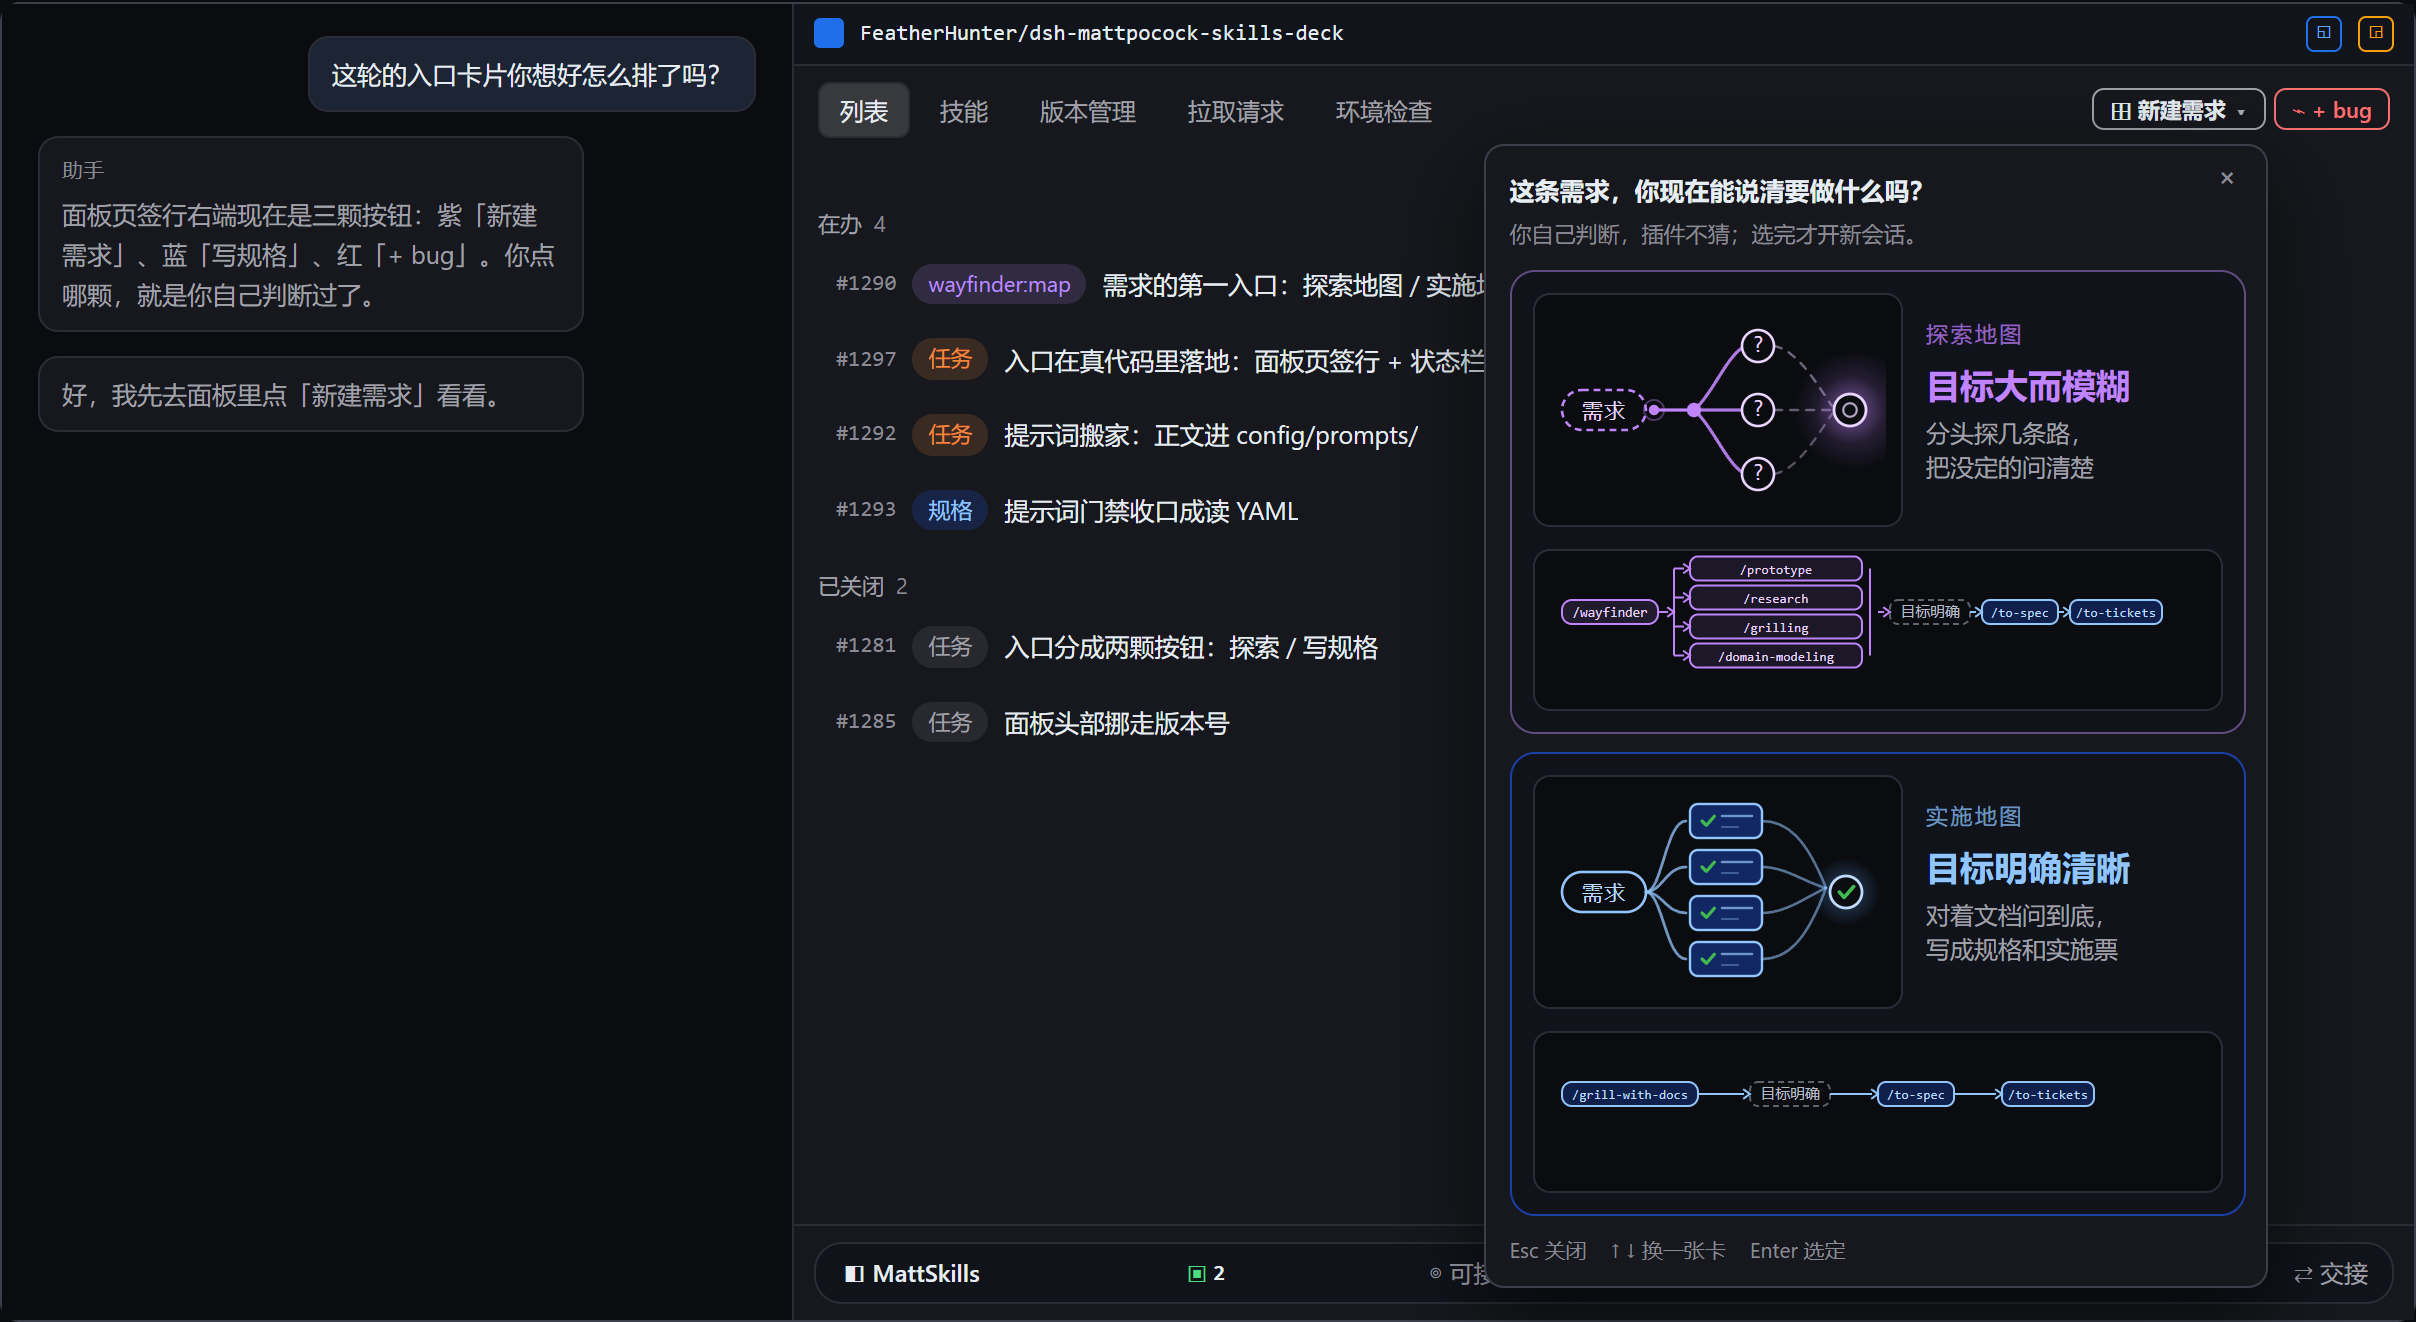
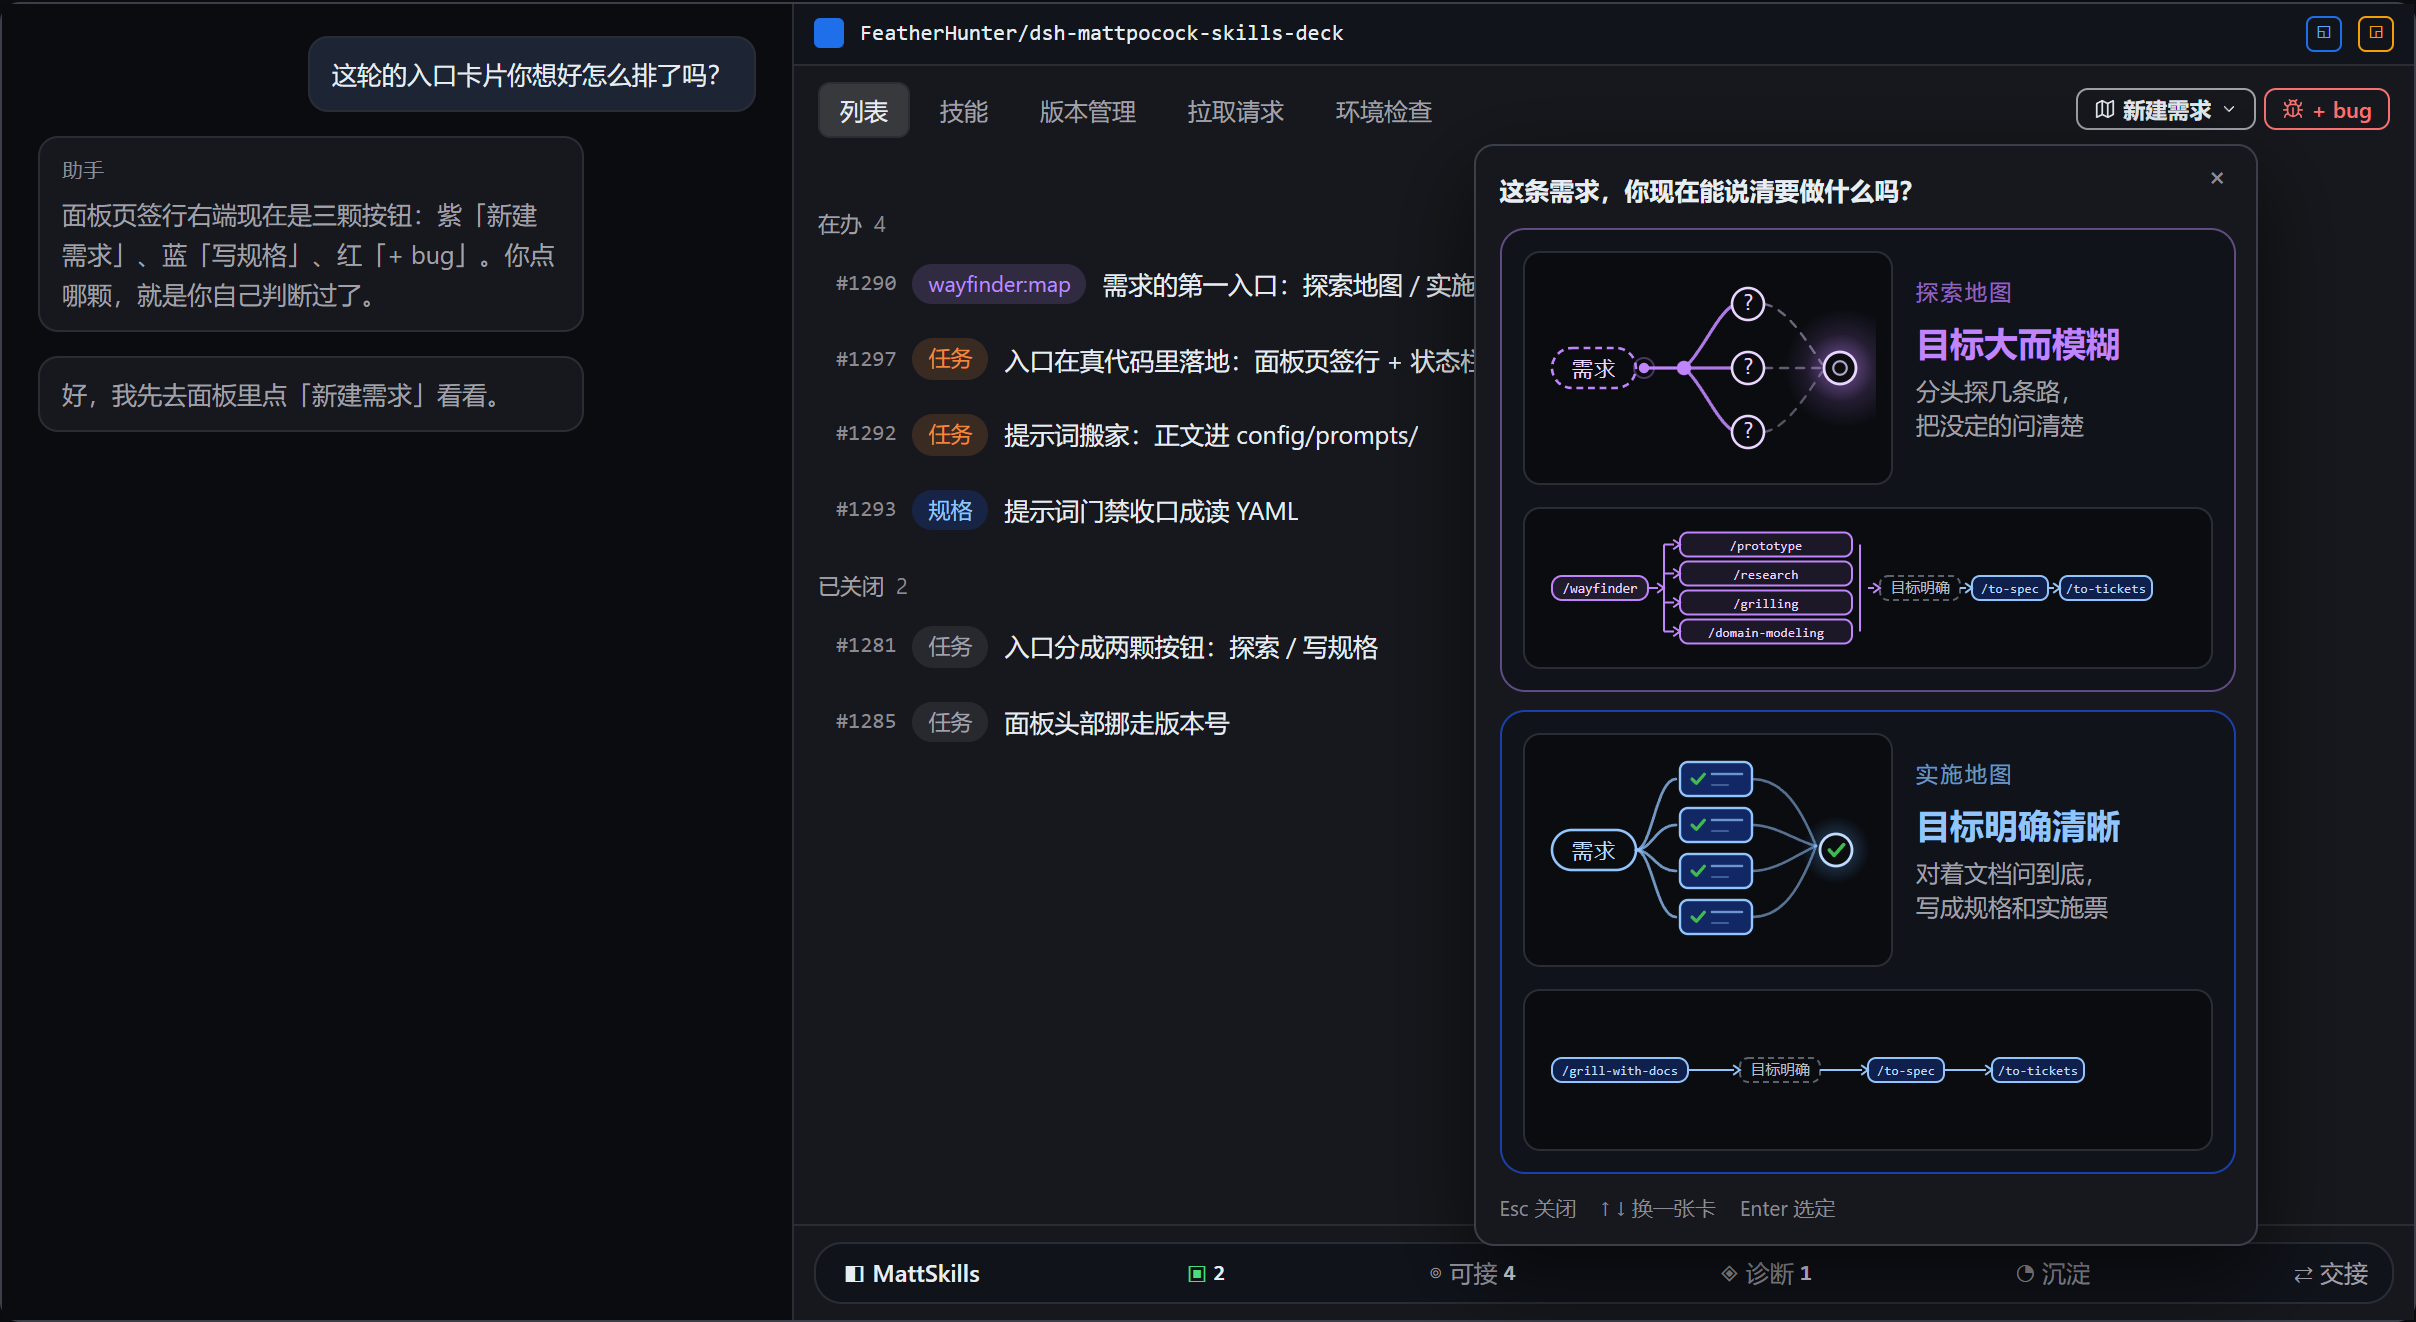
把 #1290 入口的浮层放回真机面板原型：改用真的地图图标、技能链垂直居中、状态栏胶囊也只留一颗新建需求按钮

diff --git a/docs/prototype/1290-entry-in-real-ui.html b/docs/prototype/1290-entry-in-real-ui.html
@@ -149,15 +149,15 @@ td .path{font-family:Consolas,Menlo,monospace;font-size:11.5px;color:var(--purpl
   </section>
 
   <section>
-    <h2><span class="tag">C</span>状态栏胶囊那一处：两个方案</h2>
-    <p class="sub">底部胶囊（真样式：<code>.dsws-capsule</code>）里的「可接」段目前悬停出一个小菜单，里面是「新建需求」「写规格」两项文字。画不下 368 的卡，所以两个方案。<b>（为了排版不出血，菜单画在胶囊下方；真机里是向上弹的。）</b></p>
+    <h2><span class="tag">C</span>状态栏胶囊那一处：也只放一颗「新建需求」</h2>
+    <p class="sub">底部胶囊（真样式：<code>.dsws-capsule</code>）里的「可接」段悬停出一个小菜单。现在菜单里是「新建需求」「写规格」两项文字；<b>这一版改成只放一颗「新建需求」按钮，点它弹出跟面板完全相同的那两张卡</b>——两处共用同一张卡、同一套判断。卡从胶囊上方弹出（真机里胶囊在屏幕底部，往下弹会盖住半个聊天区）。<b>（为了排版不出血，菜单画在胶囊下方。）</b></p>
     <div id="optC"></div>
   </section>
 
   <section>
     <h2><span class="tag">D</span>这一版涉及的代码位置</h2>
     <div id="mapTable"></div>
-    <p class="hint">还没写进真代码：浮层、卡片、选中反馈都是这一页原型。状态栏那一处（第 ③ 方案）要跟面板共用同一张卡，得把浮层从面板里提出来成一个共享组件。</p>
+    <p class="hint">还没写进真代码：浮层、卡片、选中反馈都是这一页原型。状态栏那一处要跟面板共用同一张卡，得把浮层从面板里提出来做成一个共享组件（面板按钮和状态栏菜单都调它）。</p>
   </section>
 </div>
 
@@ -321,11 +321,27 @@ function cardFinal(kind, body){
   s+='<text x="208" y="64" font-size="17" font-weight="700" fill="'+c.color+'">'+c.state+'</text>';
   s+=wrapText(208,86,body,12,12,17,"#a1a1aa");
   s+='<rect x="12" y="140" width="344" height="80" rx="8" fill="#0a0c10" stroke="#2a2d35"></rect>';
-  s+= kind==='explore' ? chainExploreH(26,140) : chainImplH(26,140);
+  /* 技能链在面板里垂直居中：面板 140..220，中心 180；链内部的中线是 oy+31，所以 oy 传 149 */
+  s+= kind==='explore' ? chainExploreH(26,149) : chainImplH(26,149);
   return s+'</svg>';
 }
 var BODY_E="分头探几条路，把没定的问清楚";
 var BODY_I="对着文档问到底，写成规格和实施票";
+
+/* ==================================================================
+   图标：照 src/client/kernel/icons.ts 的通用集原样搬（24 的 viewBox、currentColor、描边 1.8）
+   ================================================================== */
+var ICON_BODY={
+  map:'<path d="M3 6l6-3 6 3 6-3v15l-6 3-6-3-6 3z"></path><path d="M9 3v15M15 6v15"></path>',
+  note:'<rect x="4" y="4" width="16" height="16" rx="2"></rect><path d="M8 9h8M8 13h8M8 17h5"></path>',
+  bug:'<path d="M8 2l1.88 1.88"></path><path d="M14.12 3.88L16 2"></path><path d="M9 7.13v-1a3.003 3.003 0 116 0v1"></path><path d="M12 20c-3.3 0-6-2.7-6-6v-3a4 4 0 014-4h4a4 4 0 014 4v3c0 3.3-2.7 6-6 6"></path><path d="M12 20v-9"></path><path d="M6.53 9C4.6 8.8 3 7.1 3 5"></path><path d="M6 13H2"></path><path d="M3 21c0-2.1 1.7-3.9 3.8-4"></path><path d="M20.97 5c0 2.1-1.6 3.8-3.5 4"></path><path d="M22 13h-4"></path><path d="M17.2 17c2.1.1 3.8 1.9 3.8 4"></path>',
+  'chev-down':'<polyline points="6 9 12 15 18 9"></polyline>'
+};
+function ic(n,size){
+  var s=size||12;
+  return '<svg viewBox="0 0 24 24" width="'+s+'" height="'+s+'" fill="none" stroke="currentColor" stroke-width="1.8" '+
+    'stroke-linecap="round" stroke-linejoin="round" style="display:inline-block;vertical-align:-2px;flex:none">'+ICON_BODY[n]+'</svg>';
+}
 
 /* ==================================================================
    面板与浮层
@@ -334,11 +350,9 @@ function panelHTML(opts){
   opts=opts||{};
   var w=opts.w||400, showCurrent=opts.showCurrent;
   var acts = showCurrent
-    ? '<button class="dsws-btn act way">⊞ 新建需求</button><button class="dsws-btn act spec">▤ 写规格</button>'
-    : '<button class="dsws-btn act newreq entry-btn">⊞ 新建需求 <span class="caret">▾</span></button>';
-  var acts2 = showCurrent
-    ? '<button class="dsws-btn act bug">⌁ + bug</button>'
-    : '<button class="dsws-btn act bug">⌁ + bug</button>';
+    ? '<button class="dsws-btn act way">'+ic('map',11)+' 新建需求</button><button class="dsws-btn act spec">'+ic('note',11)+' 写规格</button>'
+    : '<button class="dsws-btn act newreq entry-btn">'+ic('map',11)+' 新建需求'+ic('chev-down',9)+'</button>';
+  var acts2 = '<button class="dsws-btn act bug">'+ic('bug',11)+' + bug</button>';
   return ''+
   '<div class="panel" style="width:'+w+'px">'+
     '<div class="dockbar"><span class="ric"></span><span class="rname">FeatherHunter/dsh-mattpocock-skills-deck</span><span class="sp"></span>'+
@@ -373,8 +387,7 @@ function capsuleHTML(withMenu){
     '<span class="take-wrap" data-take>'+
       '<span class="cseg">◎ 可接 <b>4</b></span>'+
       (withMenu===false?'':'<div class="take-menu" data-takemenu>'+
-        '<div class="mi" data-take-new><span class="dot" style="background:#c084fc"></span>新建需求</div>'+
-        '<div class="mi" data-take-spec><span class="dot" style="background:#60a5fa"></span>写规格</div>'+
+        '<div class="mi" data-take-new>'+ic('map',11)+' 新建需求</div>'+
       '</div>')+
     '</span>'+
     '<span class="cseg">◈ 诊断 <b>1</b></span>'+
@@ -394,7 +407,6 @@ function chooserHTML(){
   return '<div class="chooser" data-chooser>'+
     '<button class="close" data-close>×</button>'+
     '<h4>这条需求，你现在能说清要做什么吗？</h4>'+
-    '<p class="csub">你自己判断，插件不猜；选完才开新会话。</p>'+
     '<div class="pick" data-pick="explore">'+cardFinal("explore",BODY_E)+'</div>'+
     '<div class="pick" data-pick="impl">'+cardFinal("impl",BODY_I)+'</div>'+
     '<div class="foot"><span>Esc 关闭</span><span>↑ ↓ 换一张卡</span><span>Enter 选定</span></div>'+
@@ -419,12 +431,28 @@ function buildWindow(mountId, panelW, opts){
     chooser.style.left=left+'px';
     chooser.style.top=(b.bottom-wRect.top+6)+'px';
   }
+  /* 状态栏胶囊那一处：浮层向上弹，底边贴着胶囊上沿（真机里胶囊在屏幕底部，只能往上） */
+  function placeAbove(anchor){
+    var b=anchor.getBoundingClientRect(), wRect=win.getBoundingClientRect();
+    var left=b.right-wRect.left-392;
+    if(left<8) left=8;
+    chooser.style.left=left+'px';
+    chooser.style.top=(b.top-wRect.top-chooser.offsetHeight-6)+'px';
+  }
   function open(){
     place(); chooser.classList.add('open');
+  }
+  function openAbove(anchor){
+    chooser.classList.add('open');
+    placeAbove(anchor);
   }
   function close(){ chooser.classList.remove('open'); }
   if(btn){
     btn.addEventListener('click',function(e){ e.stopPropagation(); chooser.classList.contains('open')?close():open(); });
+  }
+  var takeBtn=win.querySelector('[data-take-new]');
+  if(takeBtn){
+    takeBtn.addEventListener('click',function(e){ e.stopPropagation(); openAbove(takeBtn); });
   }
   chooser.addEventListener('click',function(e){ e.stopPropagation(); });
   win.addEventListener('click',function(){ close(); });
@@ -476,16 +504,15 @@ function capsuleVariant(title, desc, menuHTML){
 }
 document.getElementById('optC').innerHTML=
   capsuleVariant('① 保持现在这样（两项文字，点文字直接开会话）',
-    '改动最小，但同一件事在面板里是「问」、在状态栏里是「猜」——用户得自己记住哪一项是哪条路。',
+    '没选。改动最小，但同一件事在面板里是「问」、在状态栏里是「猜」——用户得自己记住哪一项是哪条路。',
     '<div class="take-menu" style="display:block;position:static;margin-top:8px;min-width:168px;padding:4px;background:#16181d;border:1px solid #2a2d35;border-radius:8px;box-shadow:0 8px 30px rgba(0,0,0,.45)">'+
       '<div class="mi"><span class="dot" style="background:#c084fc"></span>新建需求</div>'+
       '<div class="mi"><span class="dot" style="background:#60a5fa"></span>写规格</div>'+
     '</div>')+
-  capsuleVariant('③ 只留一颗「新建需求 ▾」，点了弹同一组卡（建议）',
-    '面板和状态栏共用同一张卡、同一套判断；代价是状态栏少一次点击直达。',
+  capsuleVariant('② 状态栏胶囊里也只放一颗「新建需求」，点了弹同一组卡（已定）',
+    '面板和状态栏共用同一张卡、同一套判断：菜单里只有一颗按钮，点它弹出同样那两张卡；卡从胶囊上方弹出（真机里胶囊在屏幕底部，往下会盖住半个聊天区）。',
     '<div class="take-menu" style="display:block;position:static;margin-top:8px;min-width:392px;padding:12px 12px 9px;background:#16181d;border:1px solid #3a3f4a;border-radius:10px;box-shadow:0 16px 44px rgba(0,0,0,.6)">'+
-      '<div style="font-size:12.5px;color:#e6edf3;font-weight:600;margin:0 0 2px">这条需求，你现在能说清要做什么吗？</div>'+
-      '<div style="font-size:11px;color:#8b8b95;margin:0 0 6px">你自己判断，插件不猜；选完才开新会话。</div>'+
+      '<div style="font-size:12.5px;color:#e6edf3;font-weight:600;margin:0 0 6px">这条需求，你现在能说清要做什么吗？</div>'+
       '<div class="pick" style="margin-top:6px">'+cardFinal("explore",BODY_E)+'</div>'+
       '<div class="pick" style="margin-top:6px">'+cardFinal("impl",BODY_I)+'</div>'+
     '</div>');
@@ -495,7 +522,7 @@ var MAPS=[
   ['面板页签行与右侧三颗按钮','<span class="path">src/client/views/shared/Tabs.ts:73-95</span>','现在紫「新建需求」蓝「写规格」红「+ bug」三颗挤在页签行右端；这一版紫蓝合并成一颗灰白「新建需求 ▾」，红「+ bug」原地不动。'],
   ['浮层本身（盖在面板外面）','<span class="path">src/client/statusbar/StatusBar.ts:318-327</span>','状态栏菜单已经在用 <code>PortalOverlay</code> + <code>position:fixed</code> + <code>zIndex 2147483000</code>；这张卡照抄那套做法，就能盖出面板、不被面板裁掉。'],
   ['选卡之后做什么','<span class="path">src/client/kernel/router.ts:200,207</span>','选「探索地图」→ <code>newWayfinderText(s)</code> + <code>newSessionTitleNew(\'requirement\')</code>；选「实施地图」→ <code>newSpecText(s)</code> + <code>newSessionTitleNew(\'spec\')</code>。跟现在按钮的点击处理一模一样，只多一步选择。'],
-  ['状态栏胶囊那一处','<span class="path">src/client/statusbar/StatusBar.ts:316-328</span>','「可接」胶囊悬停出的菜单，现在是「新建需求」「写规格」两项文字；方案 ③ 改成一颗按钮弹同一组卡。'],
+  ['状态栏胶囊那一处','<span class="path">src/client/statusbar/StatusBar.ts:316-328</span>','「可接」胶囊悬停出的菜单，现在是「新建需求」「写规格」两项文字；这一版改成<b>只放一颗「新建需求」按钮</b>，点了弹同一组卡（从胶囊上方弹出）。'],
   ['现在那两句悬停提示','<span class="path">src/client/kernel/locale-data.ts:1649-1650, 2303-2304</span>','「适合还没想清的需求…」「适合已经想清的需求…」正是卡上该说的话，搬进卡里；按钮自己的提示改成「选一条路：探索地图或实施地图」。'],
   ['卡片本身（368×232）','<span class="path">docs/prototype/1290-card-final.html</span>','定稿卡：地图 1:1 + 眉标 + 状态句 + 主体文本 + 底部技能链。这一页直接搬了那里的零件函数。'],
   ['入口按钮的词表','<span class="path">src/client/kernel/locale-data.ts</span>','<code>panel.newWayfinder</code> / <code>panel.newSpec</code> / <code>panel.newBug</code> 三个 key 要改成「新建需求 / 新建需求 / + bug」并去掉中间那项。'],

diff --git a/docs/prototype/1290-card-final.html b/docs/prototype/1290-card-final.html
@@ -290,7 +290,8 @@ function cardFinal(kind, bodyKey, override){
   s+='<text x="208" y="64" font-size="17" font-weight="700" fill="'+c.color+'">'+c.state+'</text>';
   s+=wrapText(208,86,override||BODY[bodyKey][kind==='explore'?'e':'i'],12,12,17,"#a1a1aa");
   s+='<rect x="12" y="140" width="344" height="80" rx="8" fill="#0a0c10" stroke="#2a2d35"></rect>';
-  s+= kind==='explore' ? chainExploreH(26,140) : chainImplH(26,140);
+  /* 技能链在面板里垂直居中：面板 140..220，中心 180；链内部的中线是 oy+31，所以 oy 传 149 */
+  s+= kind==='explore' ? chainExploreH(26,149) : chainImplH(26,149);
   return s+'</svg>';
 }
 function render(id,cards,notes){
